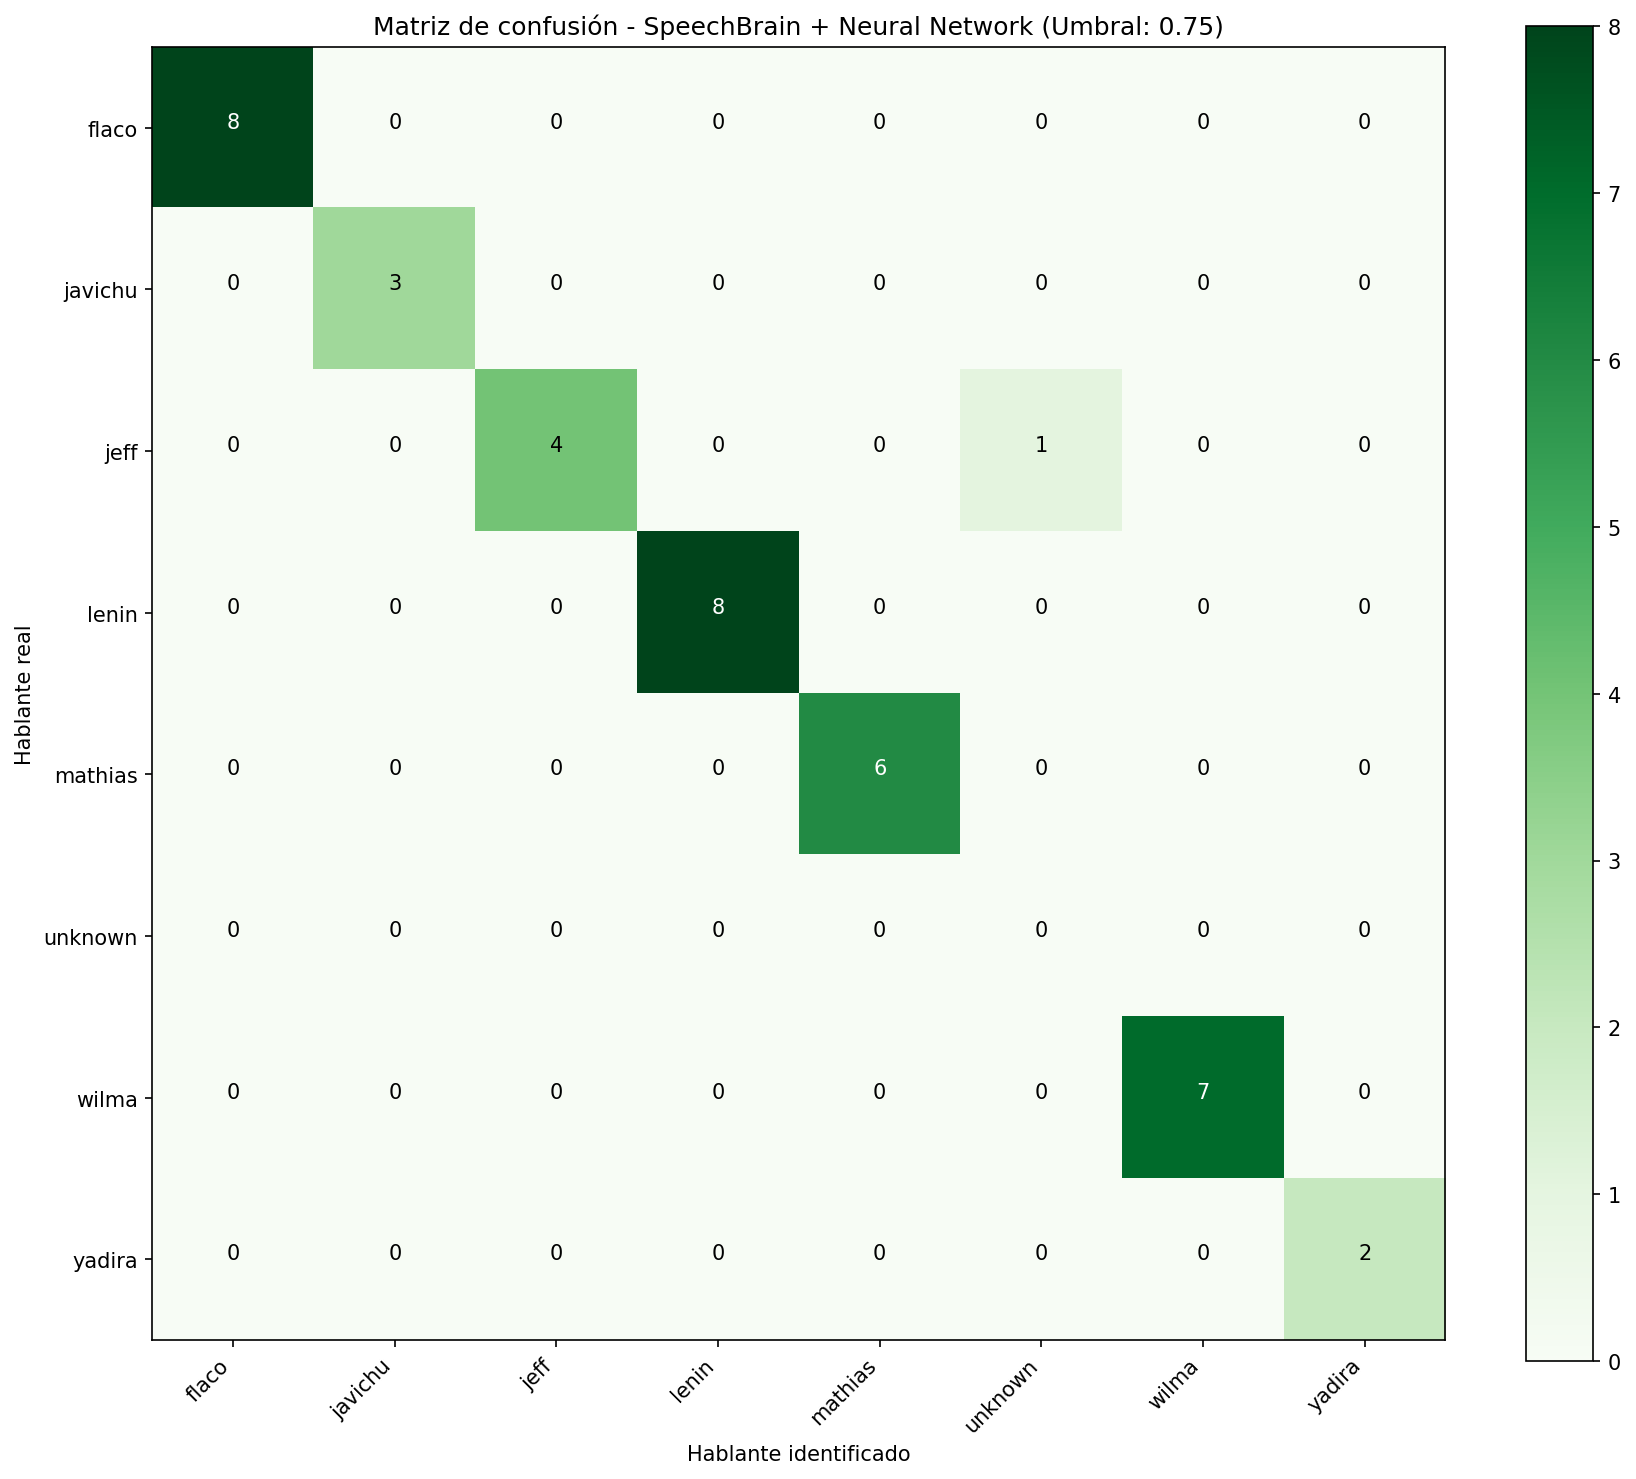
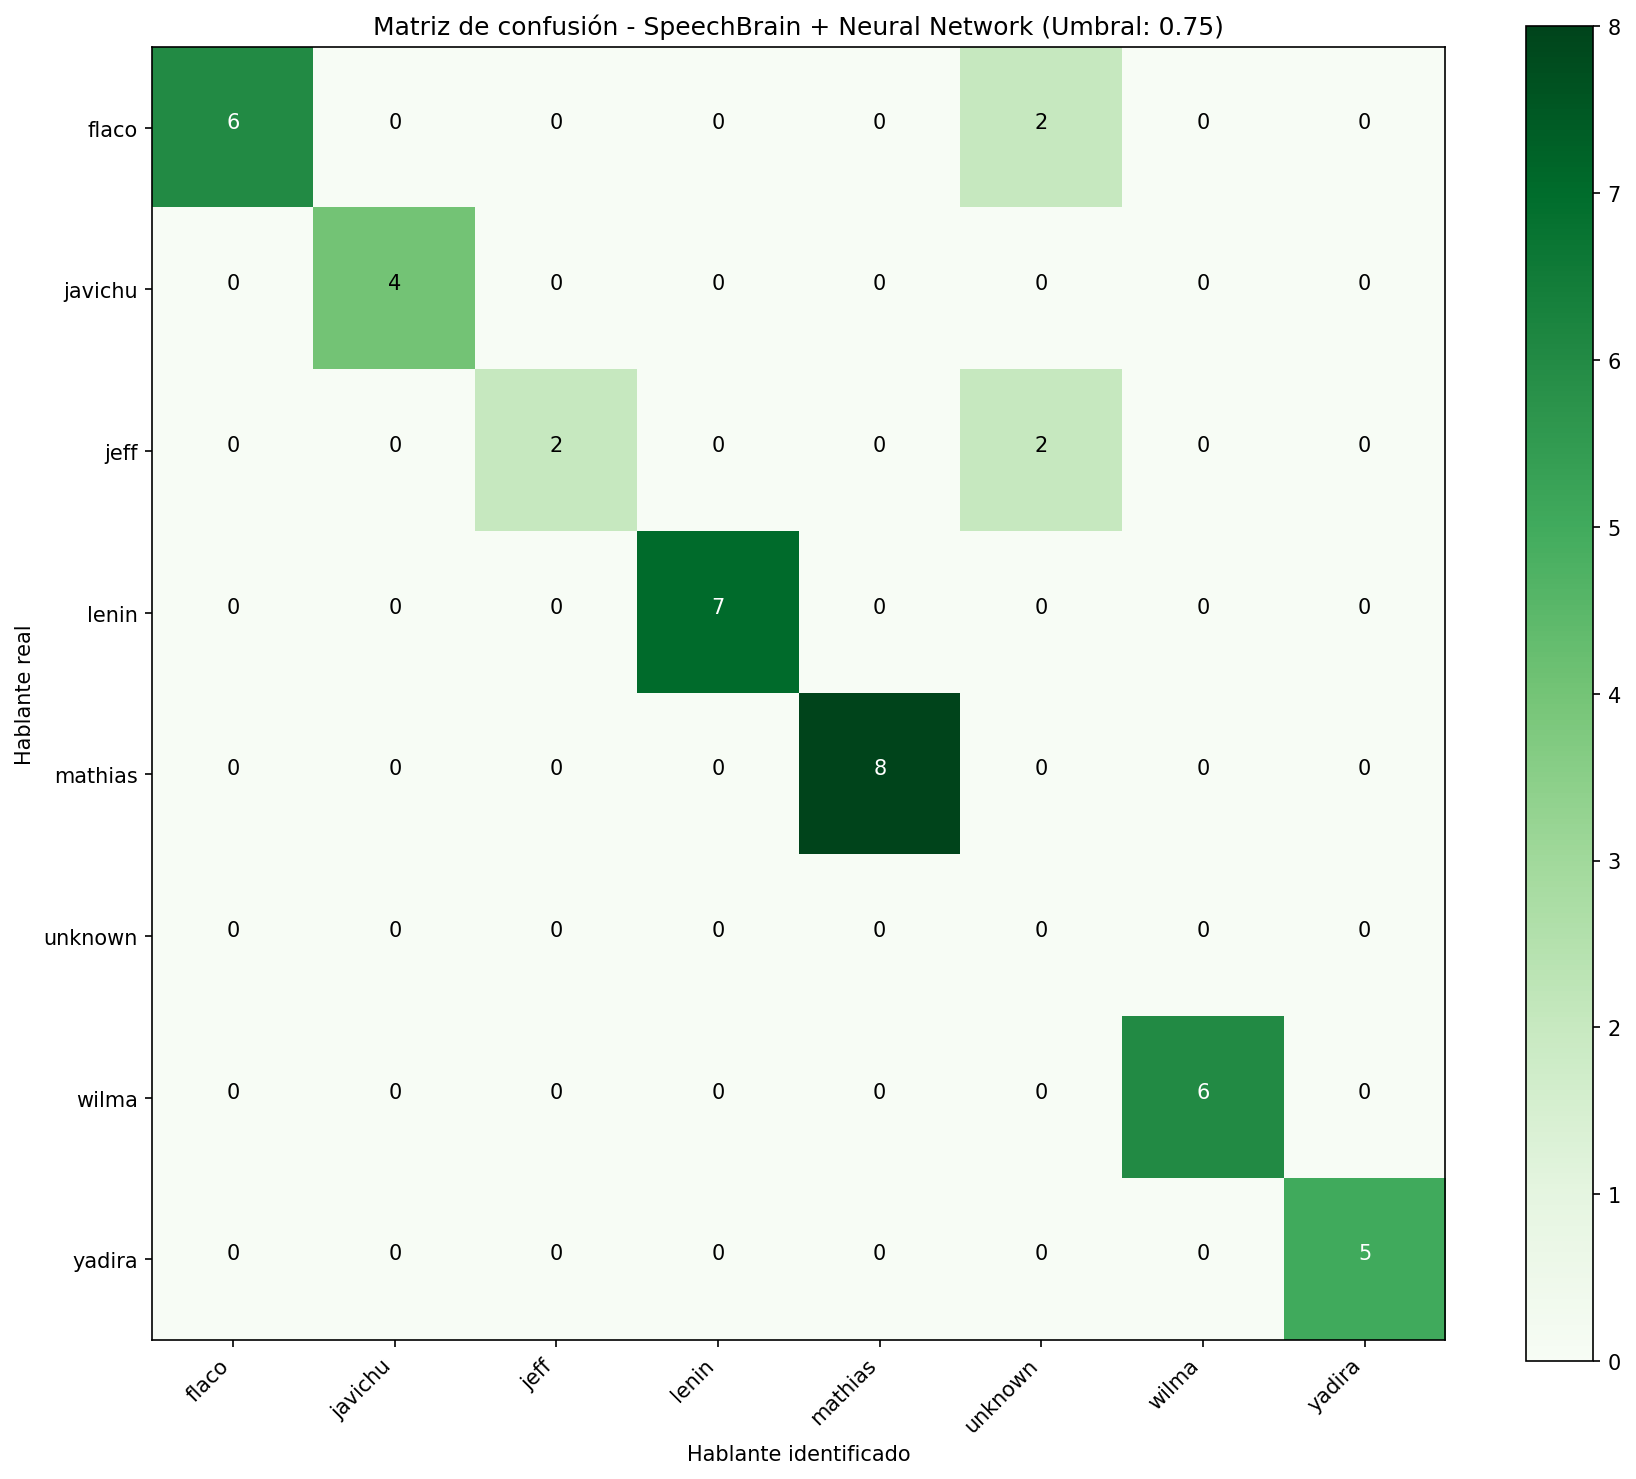
chore: fix minor bugs

diff --git a/models/voice/classifiers/nn_classifier.py b/models/voice/classifiers/nn_classifier.py
@@ -1,9 +1,6 @@
 import os
 import numpy as np
-from sklearn.model_selection import train_test_split
-from sklearn.metrics import accuracy_score, classification_report, confusion_matrix
 from sklearn.preprocessing import LabelEncoder
-import matplotlib.pyplot as plt
 from pathlib import Path
 import torch
 import torch.nn as nn
@@ -43,6 +40,13 @@ class VoiceClassifier(nn.Module):
         self.relu = nn.ReLU()
     
     def forward(self, embeddings):
+        batch_size = embeddings.size(0)
+        use_eval_mode = batch_size == 1 and self.training
+        
+        if use_eval_mode:
+            self.bn1.eval()
+            self.bn2.eval()
+        
         embeddings = self.fc1(embeddings)
         embeddings = self.bn1(embeddings)
         embeddings = self.relu(embeddings)
@@ -52,6 +56,11 @@ class VoiceClassifier(nn.Module):
         embeddings = self.relu(embeddings)
         embeddings = self.dropout2(embeddings)
         logits = self.fc3(embeddings)
+        
+        if use_eval_mode:
+            self.bn1.train()
+            self.bn2.train()
+        
         return logits
 
 class EmbeddingDataset(Dataset):

diff --git a/models/facial/classifiers/nn_classifier.py b/models/facial/classifiers/nn_classifier.py
@@ -1,9 +1,6 @@
 import os
 import numpy as np
-from sklearn.model_selection import train_test_split
-from sklearn.metrics import accuracy_score, classification_report, confusion_matrix
 from sklearn.preprocessing import LabelEncoder
-import matplotlib.pyplot as plt
 from pathlib import Path
 from PIL import Image
 import torch
@@ -36,6 +33,13 @@ class FaceClassifier(nn.Module):
         self.relu = nn.ReLU()
     
     def forward(self, embeddings):
+        batch_size = embeddings.size(0)
+        use_eval_mode = batch_size == 1 and self.training
+        
+        if use_eval_mode:
+            self.bn1.eval()
+            self.bn2.eval()
+        
         embeddings = self.fc1(embeddings)
         embeddings = self.bn1(embeddings)
         embeddings = self.relu(embeddings)
@@ -45,6 +49,11 @@ class FaceClassifier(nn.Module):
         embeddings = self.relu(embeddings)
         embeddings = self.dropout2(embeddings)
         logits = self.fc3(embeddings)
+        
+        if use_eval_mode:
+            self.bn1.train()
+            self.bn2.train()
+        
         return logits
 
 class EmbeddingDataset(Dataset):

diff --git a/src/authentication/services/extractors/video_audio_extractor.py b/src/authentication/services/extractors/video_audio_extractor.py
@@ -12,6 +12,7 @@ class VideoAudioExtractor:
     MIN_AUDIO_SEGMENTS = 10
     MAX_AUDIO_SEGMENTS = 15
     MIN_AUDIO_DURATION_SECONDS = 3
+    DURATION_TOLERANCE_SECONDS = 0.2
     
     def __init__(self):
         pass
@@ -101,7 +102,9 @@ class VideoAudioExtractor:
         audio_data, sample_rate = sf.read(audio_path)
         audio_duration = len(audio_data) / sample_rate
         
-        if audio_duration < self.MIN_AUDIO_DURATION_SECONDS:
+        effective_min_duration = self.MIN_AUDIO_DURATION_SECONDS - self.DURATION_TOLERANCE_SECONDS
+        
+        if audio_duration < effective_min_duration:
             raise ValueError(
                 f"El audio extraído es demasiado corto. Se requiere al menos "
                 f"{self.MIN_AUDIO_DURATION_SECONDS} segundos de audio para autenticación. "

diff --git a/src/authentication/services/extractors/video_frame_extractor.py b/src/authentication/services/extractors/video_frame_extractor.py
@@ -11,6 +11,7 @@ from ...services.video.video_converter import VideoConverter
 class VideoFrameExtractor:
     REQUIRED_FRAMES = 100
     MIN_VIDEO_DURATION_SECONDS = 30
+    DURATION_TOLERANCE_SECONDS = 0.2
     
     def __init__(self):
         pass
@@ -84,7 +85,9 @@ class VideoFrameExtractor:
             fps = self._get_fps(cap)
             video_duration = frame_count / fps
             
-            if video_duration < min_duration_seconds:
+            effective_min_duration = min_duration_seconds - self.DURATION_TOLERANCE_SECONDS
+            
+            if video_duration < effective_min_duration:
                 cap.release()
                 raise ValueError(
                     f"El video es demasiado corto para autenticación. Se requiere un video de al menos "

diff --git a/src/authentication/services/video/video_processor.py b/src/authentication/services/video/video_processor.py
@@ -68,10 +68,12 @@ class VideoProcessor:
             
             cv2.imwrite(temp_frame_path, face_crop)
             
-            _, _ = self.media_processor.extract_voice_embedding_from_video(
+            _, emb = self.media_processor.extract_voice_embedding_from_video(
                 temp_video_path,
                 output_audio_path=temp_audio_path
             )
+
+            print("Embedding: ", emb)
             
             return temp_frame_path, temp_audio_path
         
